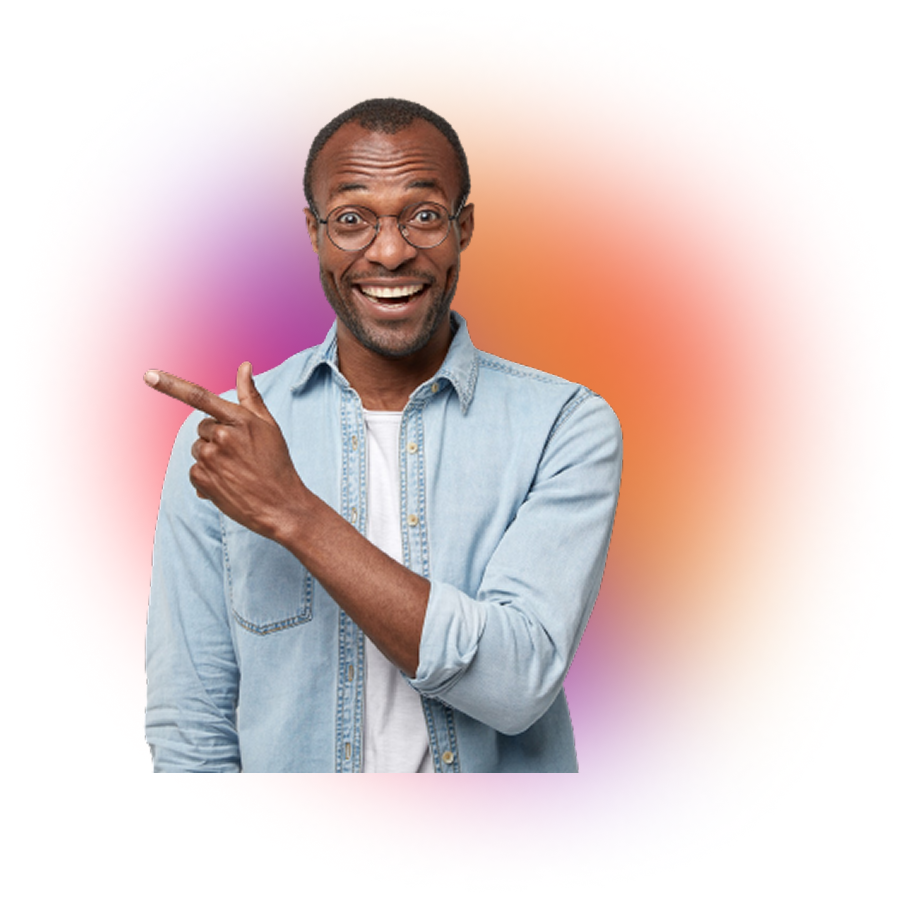
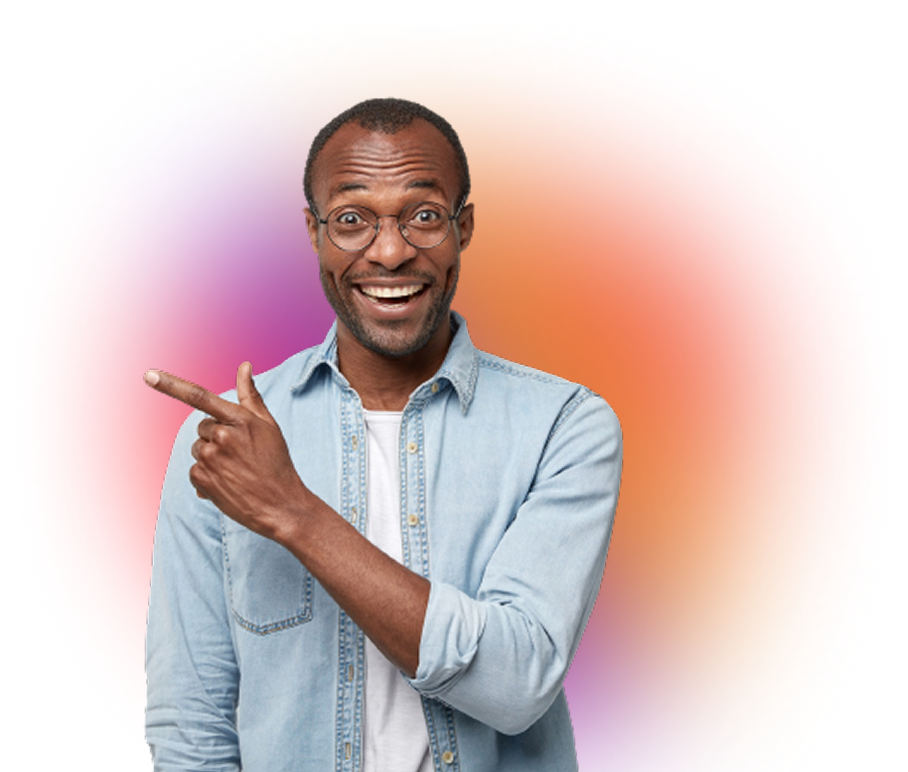
setup hero section html and css

diff --git a/uiux/css/style.css b/uiux/css/style.css
@@ -13,6 +13,65 @@
     --color-lime-300: #CAEF46;
     --color-amber-500: #EE9E00;
     --color-orange-50: #FEF1E7;
+    --color-orange-55: #FFF1E8;
     --color-white: #FFFFFF;
     --color-white-50: #FFFFFF80;
+}
+
+/* Class component */
+body {
+    font-family: var(--font-space-grotesk);
+}
+
+.btn {
+    padding: 16px 32px;
+    border: 2px solid var(--color-neutral-900);
+    background-color: var(--color-lime-400);
+    font-size: 16px;
+    font-weight: var(--weight-bold);
+}
+
+/* Hero section */
+.hero {
+    background-color: var(--color-orange-55);
+    display: flex;
+    align-items: center;
+    min-height: 100vh;
+    border: 1px solid blue;
+
+    .hero__content {
+        position: relative;
+        border: 1px solid red;
+
+        .hero__content-title {
+            font-size: 88px;
+            font-weight: var(--weight-bold);
+            color: var(--color-neutral-900);
+            line-height: 120%;
+            max-width: 10ch;
+        }
+
+        .hero__content-description {
+            font-size: 16px;
+            color: var(--color-neutral-900);
+            font-weight: var(--weight-medium);
+            line-height: 26px;
+            font-family: var(--font-dm-sans);
+            max-width: 40ch;
+        }
+
+        .hero__content-hole {
+            position: absolute;
+            right: -40px;
+            top: 0;
+        }
+    }
+
+    .hero__image {
+        height: 100%;
+        /* margin-bottom: -300px;
+        max-width: 622px;
+        height: auto;
+        object-fit: contain; */
+    }
 }

diff --git a/uiux/index.html b/uiux/index.html
@@ -1,11 +1,31 @@
 <!doctype html>
 <html lang="en">
-  <head>
-    <meta charset="UTF-8" />
-    <meta name="viewport" content="width=device-width, initial-scale=1.0" />
-    <title>UIUX</title>
 
-    <link rel="stylesheet" href="./css/style.css" />
-  </head>
-  <body></body>
+<head>
+  <meta charset="UTF-8" />
+  <meta name="viewport" content="width=device-width, initial-scale=1.0" />
+  <title>UIUX</title>
+
+  <link rel="stylesheet" href="./css/style.css" />
+</head>
+
+<body>
+  <!-- Hero section -->
+  <div class="hero">
+    <div class="hero__content">
+      <h1 class="hero__content-title">UX/UI assets for creators worldwide</h1>
+      <p class="hero__content-description">Becoming a member gives you access to education, resources, and community to
+        help
+        you grow your career and your
+        bank account.</p>
+      <button class="btn">Join For Free</button>
+      <!-- Element hole with absolute position -->
+      <img class="hero__content-hole" src="./images/hole.png" alt="element hole" />
+    </div>
+    <img class="hero__image" src="./images/hero-image.png" alt="hero image" />
+    <img src="" alt="">
+    <img src="" alt="">
+  </div>
+</body>
+
 </html>

diff --git a/uiux/css/global.css b/uiux/css/global.css
@@ -18,7 +18,8 @@
     /* FONT FAMILY */
     --font-space-grotesk: "Space Grotesk", sans-serif;
     --font-caveat: "Caveat", cursive;
-    --font-dm-sans: "DM Sans", sans-serif;;
+    --font-dm-sans: "DM Sans", sans-serif;
+    ;
     --font-inter: "Inter", sans-serif;
 }
 
